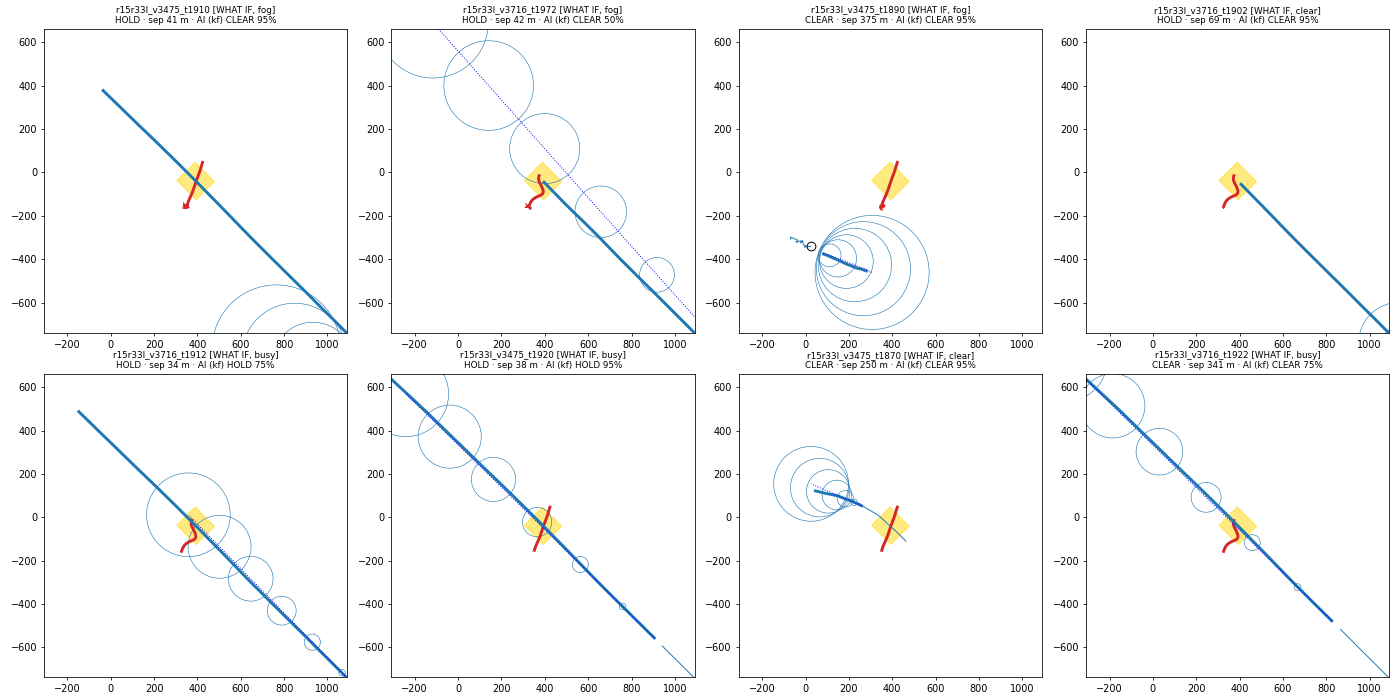
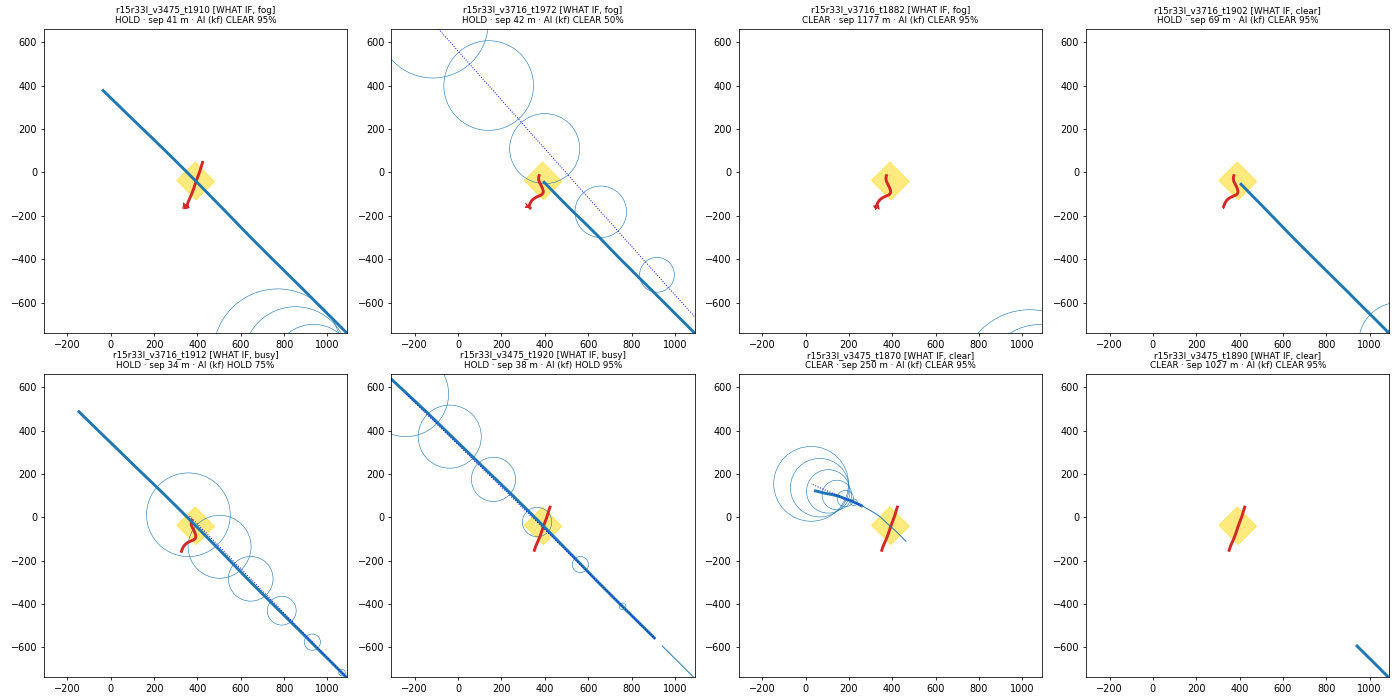
Only count aircraft on/lined up with the crossed runway
- ai_player.is_runway_user: within 100 m of the (extended) centreline,
  up to 4 km beyond the ends, heading within 25 deg; shared by the
  outcome and the AI
- outcome measures separation to runway users only; aircraft_id is the
  closest runway user visible at the freeze
- drop moments with no runway traffic at the freeze (90 of 153)
- fix CLEAR notes that wrongly said the vehicle never reached the runway
- 21 puzzles (9 HOLD unchanged / 12 CLEAR); tests for the runway-user rule

diff --git a/pipeline/puzzles.py b/pipeline/puzzles.py
@@ -105,6 +105,7 @@ class Candidate:
     crossing_end_time: float     # when it REALLY left the runway
     was_waiting: bool            # stopped at the hold line at the decision moment?
     difficulty: str = ""         # "fog" is decided before building; clear/busy after
+    runway_traffic: set = field(default_factory=set)   # aircraft that used this runway during the puzzle
 
     @property
     def time_shift(self):
@@ -118,7 +119,8 @@ class Outcome:
     conflict: bool
     min_separation_m: float
     min_separation_time: float   # seconds into the recording
-    aircraft_id: str             # the aircraft that came closest
+    aircraft_id: str             # the runway aircraft that came closest ("" if none was on the runway then)
+    vehicle_on_runway: bool = False   # did the vehicle get onto the runway during the reveal at all?
 
 
 @dataclass
@@ -261,22 +263,50 @@ def interpolate(p0, p1, fraction):
     return p0[0] + (p1[0] - p0[0]) * fraction, p0[1] + (p1[1] - p0[1]) * fraction
 
 
+def runway_users_at(scene, runway, time):
+    """Ids of aircraft on, or lined up with, `runway` at one recording second (see ai_player.is_runway_user)."""
+    users = []
+    for aircraft_id, kind in scene.kind_by_id.items():
+        if kind != "aircraft":
+            continue
+        position = real_position(scene, aircraft_id, time)
+        if position is not None and ai_player.is_runway_user(runway, position[0], position[1], position[2]):
+            users.append(aircraft_id)
+    return users
+
+
+VISIBLE_AT_FREEZE_S = 3        # "visible at the freeze" = seen in the last 3 s before the decision
+
+
+def runway_traffic_at_freeze(scene, candidate):
+    """Aircraft on (or lined up with) the crossed runway that the player can SEE at the freeze.
+    If there are none, the crossing isn't a real decision and the moment is dropped."""
+    runway = scene.runways[candidate.runway]
+    users = set()
+    for second in np.arange(candidate.decision_time - VISIBLE_AT_FREEZE_S, candidate.decision_time + 1):
+        users.update(runway_users_at(scene, runway, second))
+    return users
+
+
 def measure_outcome(scene, candidate):
-    """Closest approach between the vehicle and ANY aircraft while the vehicle is on the runway,
-    over the reveal window. Positions are compared every 0.25 s (linearly interpolated between
-    the 1 s reports) so a fast jet can't 'jump over' the vehicle between two samples."""
+    """Closest approach between the vehicle and any aircraft ON OR LINED UP WITH the crossed runway,
+    while the vehicle is on the runway, over the reveal window. (A plane parked on another runway or
+    taxiing past doesn't count.) Positions are compared every 0.25 s, linearly interpolated between
+    the 1 s reports, so a fast jet can't 'jump over' the vehicle between two samples."""
     runway = scene.runways[candidate.runway]
     start, end = candidate.decision_time, candidate.decision_time + SECONDS_AFTER_DECISION
-    aircraft_ids = [a for a, k in scene.kind_by_id.items() if k == "aircraft"]
 
     best = Outcome(conflict=False, min_separation_m=math.inf, min_separation_time=start, aircraft_id="")
+    entered_runway = False
     for second in np.arange(start, end):
         vehicle_now = vehicle_position(scene, candidate, second)
         vehicle_next = vehicle_position(scene, candidate, second + 1)
         if vehicle_now is None or vehicle_next is None:
             continue
+        if vehicle_is_on_runway(runway, vehicle_now[0], vehicle_now[1]):
+            entered_runway = True
 
-        for aircraft_id in aircraft_ids:
+        for aircraft_id in runway_users_at(scene, runway, second):
             aircraft_now = real_position(scene, aircraft_id, second)
             aircraft_next = real_position(scene, aircraft_id, second + 1)
             if aircraft_now is None or aircraft_next is None:
@@ -291,20 +321,33 @@ def measure_outcome(scene, candidate):
                 if distance < best.min_separation_m:
                     best = Outcome(conflict=distance < CONFLICT_THRESHOLD_M, min_separation_m=distance,
                                    min_separation_time=second + fraction, aircraft_id=aircraft_id)
+    best.vehicle_on_runway = entered_runway
     return best
 
 
-def closest_moving_aircraft(scene, candidate):
-    """Fallback 'question aircraft' when the vehicle never got onto the runway in the reveal:
-    the aircraft that came closest to the crossing zone during the whole puzzle."""
+def closest_runway_user(scene, candidate):
+    """Of the runway aircraft visible at the freeze, the one closest to the crossing at the freeze.
+    Used as the 'question aircraft' when none of them got close during the vehicle's crossing."""
     zone_center = np.mean(scene.zones[candidate.zone_id], axis=0)
-    start = candidate.decision_time - SECONDS_BEFORE_DECISION
-    end = candidate.decision_time + SECONDS_AFTER_DECISION
-    window = scene.tracks[(scene.tracks.kind == "aircraft") & scene.tracks.t.between(start, end)]
-    if window.empty:
-        return None
-    distance = np.hypot(window.x - zone_center[0], window.y - zone_center[1])
-    return window.loc[distance.idxmin(), "id"]
+    best = (math.inf, None)
+    for aircraft_id in sorted(candidate.runway_traffic):
+        track = scene.track_by_id[aircraft_id]
+        seen = track.loc[candidate.decision_time - VISIBLE_AT_FREEZE_S: candidate.decision_time]
+        distance = float(np.hypot(seen.x - zone_center[0], seen.y - zone_center[1]).iloc[-1])
+        best = min(best, (distance, aircraft_id))
+    return best[1]
+
+
+def closest_approach_to(scene, candidate, aircraft_id):
+    """Closest the vehicle got to one aircraft during the reveal, wherever either of them was.
+    Returns (distance_m, recording_time)."""
+    best = (math.inf, candidate.decision_time)
+    for second in np.arange(candidate.decision_time + 1, candidate.decision_time + SECONDS_AFTER_DECISION + 1):
+        vehicle = vehicle_position(scene, candidate, second)
+        aircraft = real_position(scene, aircraft_id, second)
+        if vehicle is not None and aircraft is not None:
+            best = min(best, (math.hypot(aircraft[0] - vehicle[0], aircraft[1] - vehicle[1]), second))
+    return best
 
 
 # --------------------------------------------------------------------------------------
@@ -433,7 +476,12 @@ def build_puzzle(scene, candidate):
     decision_recording_time = candidate.decision_time
     start = decision_recording_time - SECONDS_BEFORE_DECISION
 
-    aircraft_id = outcome.aircraft_id or closest_moving_aircraft(scene, candidate)
+    # The question aircraft: the runway aircraft that came closest during the crossing, if the player
+    # could see it at the freeze; otherwise the visible runway aircraft closest to the crossing.
+    if outcome.aircraft_id in candidate.runway_traffic:
+        aircraft_id = outcome.aircraft_id
+    else:
+        aircraft_id = closest_runway_user(scene, candidate)
     objects = agents_in_view(scene, candidate, aircraft_id)
 
     # Puzzle time starts at 0 = SECONDS_BEFORE_DECISION before the freeze.
@@ -473,13 +521,23 @@ def build_puzzle(scene, candidate):
     where = "is holding short of" if candidate.was_waiting else "is approaching"
     question = f"{vehicle_label} {where} RWY {candidate.runway}. Clear it to cross now?"
 
-    sep = outcome.min_separation_m
-    if math.isinf(sep):
-        sep, note = 9999.0, f"{vehicle_label} never got onto the runway in the next {SECONDS_AFTER_DECISION} s."
+    if outcome.aircraft_id == aircraft_id:
+        # the usual case: separation to the question aircraft while the vehicle was on the runway
+        sep, closest_time = outcome.min_separation_m, outcome.min_separation_time
+        note = (f"Closest approach: {sep:.0f} m to {aircraft_label}, {closest_time - candidate.decision_time:.0f} s "
+                f"after the decision ({'inside' if outcome.conflict else 'outside'} the "
+                f"{CONFLICT_THRESHOLD_M:.0f} m limit).")
     else:
-        closest_t = outcome.min_separation_time - start
-        note = (f"Closest approach: {sep:.0f} m to {aircraft_label}, {closest_t - decision_t:.0f} s after the "
-                f"decision ({'inside' if outcome.conflict else 'outside'} the {CONFLICT_THRESHOLD_M:.0f} m limit).")
+        # no runway aircraft was near while the vehicle was on the runway: report how close the
+        # question aircraft got anyway, and say why it was safe
+        sep, closest_time = closest_approach_to(scene, candidate, aircraft_id)
+        if sep < CONFLICT_THRESHOLD_M:
+            return None        # it got close OFF the runway: too ambiguous to score as CLEAR, skip it
+        if outcome.vehicle_on_runway:
+            why = f"{aircraft_label} was off the runway (or clear of the crossing) while {vehicle_label} crossed."
+        else:
+            why = f"{vehicle_label} didn't reach the runway in the next {SECONDS_AFTER_DECISION} s."
+        note = f"Safe: {why} Closest it got to {aircraft_label}: {sep:.0f} m."
     if candidate.kind == "what_if":
         note += (f" What if: {vehicle_label} really waited another {-candidate.time_shift:.0f} s; here it "
                  f"crosses now, on its own real route. The aircraft are exactly as recorded.")
@@ -518,7 +576,7 @@ def build_puzzle(scene, candidate):
             "conflict": outcome.conflict,
             "threshold_m": CONFLICT_THRESHOLD_M,
             "min_sep_m": round(sep, 1),
-            "min_sep_t": round(outcome.min_separation_time - start, 2),
+            "min_sep_t": round(closest_time - start, 2),
             "correct_call": "HOLD" if outcome.conflict else "CLEAR",
             "note": note,
         },
@@ -641,9 +699,21 @@ def main(out_dir=PUZZLE_DIR_DEFAULT, retune_kalman=True):
     candidates = make_candidates(scene, crossings)
     candidates = [c for c in candidates                       # the player must see the vehicle at the freeze
                   if vehicle_position(scene, c, c.decision_time) is not None]
+    # no aircraft on (or lined up with) the runway visible at the freeze = not a real decision: drop it
+    for candidate in candidates:
+        candidate.runway_traffic = runway_traffic_at_freeze(scene, candidate)
+    empty_runway = [c for c in candidates if not c.runway_traffic]
+    candidates = [c for c in candidates if c.runway_traffic]
+
     for candidate in candidates:
         candidate.outcome = measure_outcome(scene, candidate)
-    print(f"{len(candidates)} candidates, {sum(c.outcome.conflict for c in candidates)} where HOLD was right")
+
+    # a HOLD is only fair if the player could see the aircraft that caused it
+    unfair_hold = [c for c in candidates if c.outcome.conflict and c.outcome.aircraft_id not in c.runway_traffic]
+    candidates = [c for c in candidates if c not in unfair_hold]
+    print(f"{len(candidates)} candidates with runway traffic at the freeze "
+          f"({len(empty_runway)} empty-runway moments dropped, {len(unfair_hold)} HOLDs with an unseen aircraft dropped), "
+          f"{sum(c.outcome.conflict for c in candidates)} where HOLD was right")
 
     # 2. thin out near-duplicates, balance HOLD vs CLEAR, pick the Fog moments
     chosen = choose_puzzles(space_out(candidates))
@@ -661,7 +731,10 @@ def main(out_dir=PUZZLE_DIR_DEFAULT, retune_kalman=True):
         kalman.tune(scene.tracks, windows[["start_s", "end_s"]].values.tolist())
 
     # 4. build, label difficulty, write (every file is validated against the contract)
-    puzzles = [build_puzzle(scene, c) for c in chosen]
+    built = [(build_puzzle(scene, c), c) for c in chosen]
+    skipped_ambiguous = sum(p is None for p, _ in built)
+    chosen = [c for p, c in built if p is not None]
+    puzzles = [p for p, _ in built if p is not None]
     busy_cutoff = label_difficulty(puzzles)
 
     index = {
@@ -681,6 +754,9 @@ def main(out_dir=PUZZLE_DIR_DEFAULT, retune_kalman=True):
     # 5. summary for the README / results page, and a check picture
     summary = {
         "candidates": len(candidates),
+        "dropped_empty_runway": len(empty_runway),
+        "dropped_unfair_hold": len(unfair_hold),
+        "dropped_close_off_runway": skipped_ambiguous,
         "candidates_hold": sum(c.outcome.conflict for c in candidates),
         "puzzles": len(puzzles),
         "hold": sum(p["outcome"]["conflict"] for p in puzzles),

diff --git a/pipeline/ai_player.py b/pipeline/ai_player.py
@@ -24,6 +24,12 @@ HORIZON_S = 30                     # seconds forecast after the decision (= the 
 ASSUMED_VEHICLE_SPEED_MS = 6.0     # typical crossing speed in this hour (~150 m in ~25 s)
 P_SAFE_LIMITS = (0.02, 0.98)       # never claim certainty
 
+# Which aircraft matter for a crossing: those ON or LINED UP WITH the runway being crossed.
+# Same rule for the scoring (puzzles.py) and the AI, so they agree on what counts.
+RUNWAY_USER_MAX_PERP_M = 100        # within this distance of the runway centreline (extended)...
+RUNWAY_USER_BEYOND_ENDS_M = 4000    # ...between the runway ends or up to this far beyond them (approach / climb-out)...
+RUNWAY_USER_MAX_HEADING_DEG = 25    # ...and pointing along the runway (either direction)
+
 # Constant-velocity forecaster settings (the naive baseline)
 CV_BASE_RADIUS_M = 10.0            # 90% radius right away...
 CV_RADIUS_GROWTH_M_PER_S = 3.0     # ...growing this much per second of look-ahead (and of data age)
@@ -78,6 +84,28 @@ def is_on_runway(runway, x, y):
     return (abs(perp) <= truth.CROSSING_HALF_WIDTH_M) and (runway.along_min <= along <= runway.along_max)
 
 
+def is_runway_user(runway, x, y, heading):
+    """True for an aircraft on, or lined up with, `runway`: on the runway, holding in position
+    for takeoff, on final approach or climbing out. False for aircraft crossing it on a taxiway,
+    on a parallel taxiway, parked, or on another runway."""
+    along, perp = runway.to_runway_coords(x, y)
+    runway_heading = math.degrees(math.atan2(runway.u[0], runway.u[1])) % 180
+    heading_off = abs((heading - runway_heading + 90) % 180 - 90)      # 0 = aligned, either direction
+    return (
+        abs(perp) <= RUNWAY_USER_MAX_PERP_M
+        and runway.along_min - RUNWAY_USER_BEYOND_ENDS_M <= along <= runway.along_max + RUNWAY_USER_BEYOND_ENDS_M
+        and heading_off <= RUNWAY_USER_MAX_HEADING_DEG
+    )
+
+
+def seen_using_runway(pre_frames, aircraft_id, runway):
+    """Did the player/AI see this aircraft on or lined up with the runway before the freeze?"""
+    return any(
+        is_runway_user(runway, obj["x"], obj["y"], obj.get("heading", 0.0))
+        for frame in pre_frames for obj in frame["objects"] if obj["id"] == aircraft_id
+    )
+
+
 def assumed_vehicle_path(vehicle_observations, runway, decision_t, steps):
     """If cleared, the AI assumes the vehicle drives straight across the runway at a typical
     speed to the same distance on the far side. (It does NOT know the vehicle's real path.)"""
@@ -124,6 +152,8 @@ def decide(detector, pre_frames, objects, vehicle_id, runway, threshold_m, label
     worst = None                                               # (p_conflict, aircraft id, forecast, closest)
 
     for index, obj in enumerate(o for o in objects if o["type"] == "aircraft"):
+        if not seen_using_runway(pre_frames, obj["id"], runway):
+            continue                                           # taxiing / parked elsewhere: not a threat to this crossing
         observations = observations_from_frames(pre_frames, obj["id"])
         forecast = forecaster(observations, decision_t, HORIZON_S, seed=seed * 1000 + index)
         if forecast is None:
@@ -162,7 +192,7 @@ def explain(detector, worst, decision_t, threshold_m, call, confidence, label_fo
     """One or two plain-English sentences behind the call."""
     sure = f"{call} ({confidence * 100:.0f}% sure)."
     if worst is None:
-        return f"No aircraft I can track near the crossing, so {sure}"
+        return f"No aircraft on or lined up with this runway, so {sure}"
 
     p_conflict, aircraft_id, forecast, (closest_m, seconds_ahead, radius), observations = worst
     label = label_for(aircraft_id)

diff --git a/pipeline/tests/test_puzzles.py b/pipeline/tests/test_puzzles.py
@@ -62,3 +62,35 @@ def test_choose_puzzles_keeps_every_hold_and_balances_what_if_tags():
     what_if_chosen = [c for c in chosen if c.kind == "what_if"]
     # as many what-if CLEARs as what-if HOLDs, so the WHAT IF tag doesn't predict the answer
     assert sum(not c.outcome.conflict for c in what_if_chosen) == sum(c.outcome.conflict for c in what_if_chosen)
+
+
+# ---- which aircraft count for a crossing: only those on / lined up with the crossed runway ----
+
+from pipeline.ai_player import is_runway_user          # noqa: E402
+from pipeline.truth import Runway                      # noqa: E402
+
+
+def east_west_runway():
+    """2 km runway along the x axis (heading 90)."""
+    return Runway(name="9/27", center=np.array([0.0, 0.0]), u=np.array([1.0, 0.0]),
+                  along_min=-1000, along_max=1000)
+
+
+def test_aircraft_rolling_down_the_runway_counts_either_direction():
+    rw = east_west_runway()
+    assert is_runway_user(rw, 300.0, 5.0, heading=90.0)
+    assert is_runway_user(rw, 300.0, 5.0, heading=270.0)
+
+
+def test_aircraft_on_final_approach_counts():
+    assert is_runway_user(east_west_runway(), -3500.0, 20.0, heading=90.0)
+
+
+def test_aircraft_crossing_the_runway_on_a_taxiway_does_not_count():
+    assert not is_runway_user(east_west_runway(), 300.0, 10.0, heading=0.0)
+
+
+def test_aircraft_on_a_parallel_taxiway_or_other_runway_does_not_count():
+    rw = east_west_runway()
+    assert not is_runway_user(rw, 300.0, 180.0, heading=90.0)     # parallel taxiway, 180 m away
+    assert not is_runway_user(rw, 300.0, -500.0, heading=90.0)    # a different parallel runway
